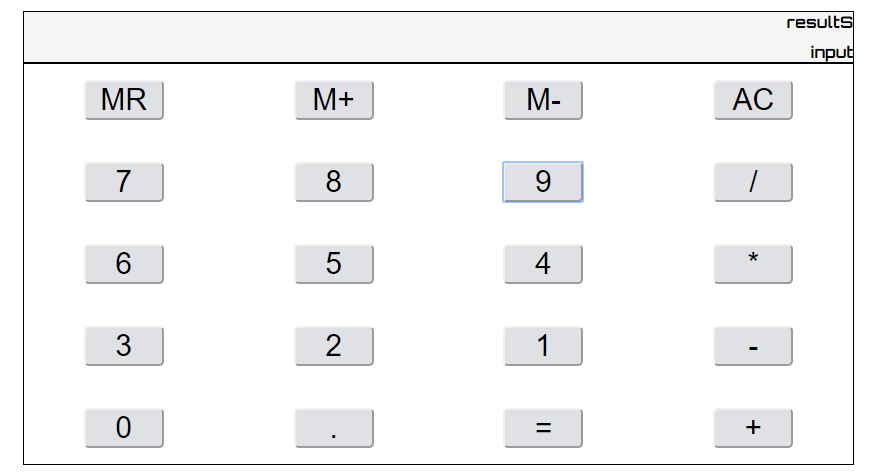
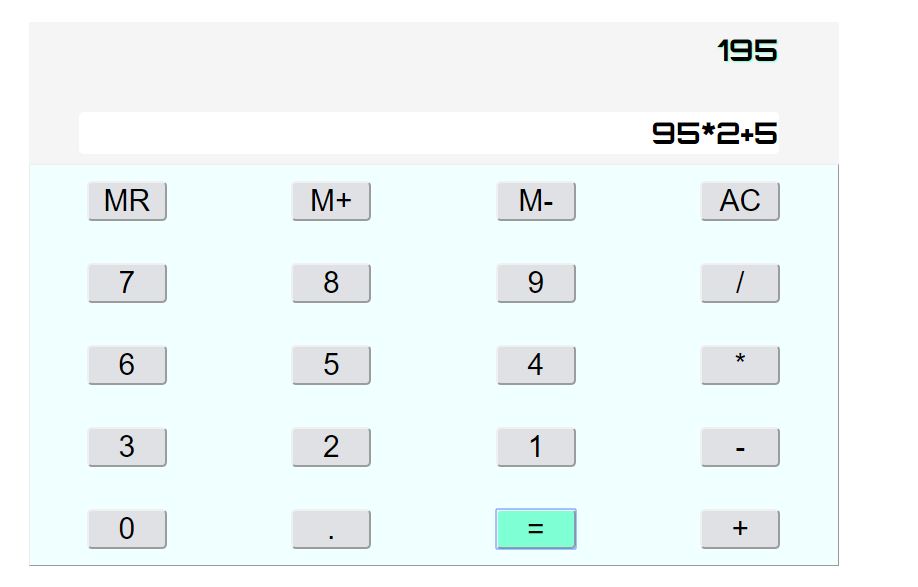
better front end + calculation with eval function

diff --git a/js/calc.js b/js/calc.js
@@ -20,12 +20,20 @@ const createCalcZone = function(calcBtnList){
     let resultZone = document.createElement("div")
     resultZone.classList.add("resultZone");
     viewZone.appendChild(resultZone);
-    resultZone.innerText = "resultS";
+    resultZone.innerText = "";
+
+
 
     let inputZone = document.createElement("div")
     inputZone.classList.add("inputZone");
     viewZone.appendChild(inputZone);
-    inputZone.innerText = "input";  
+
+    let inputOperation = document.createElement("input")
+    inputOperation.classList.add("inputOperation");
+    inputOperation.placeholder = "0";
+    //calcBtn.dataset.value = element; 
+    inputZone.appendChild(inputOperation);
+    //inputZone.innerText = "input";  
 
     //left div
     const rightDiv = document.createElement("div");
@@ -45,10 +53,91 @@ const createCalcZone = function(calcBtnList){
 
        let calcBtn = document.createElement("button")
        calcBtn.classList.add("calcBtn");
+       calcBtn.id = `btn_${element}s`;
        calcBtn.innerText = element;
        calcBtn.dataset.value = element; 
-       calcItem.appendChild(calcBtn);   
+       calcItem.appendChild(calcBtn);
+       
+       
     });
 
 } 
 createCalcZone(calcBtnList);
+
+const handleClickOnButton = function(event){
+
+    in_memory = 0;
+    let clickedValue = event.currentTarget;
+    const excepts = ["MR","M+","M-","AC"];
+
+    if (excepts.includes(clickedValue.dataset.value)){
+
+        if (clickedValue.dataset.value === "AC"){
+            document.querySelector(".inputOperation").value = "";
+            document.querySelector(".resultZone").innerText = ""; 
+        }
+
+        if (clickedValue.dataset.value === "M+"){
+
+            function addInMem(){
+
+                const tempMem =  parseFloat(document.querySelector(".resultZone").innerText || "");
+                localStorage.setItem("memory",tempMem);
+
+                // let tempMem = parseFloat(localStorage.getItem("memory"));
+                // if (!tempMem || tempMem === ""){
+                //     tempMem =  parseFloat(document.querySelector(".resultZone").innerText);
+                //     localStorage.setItem("memory",tempMem);
+                // }
+                // else{
+                //     const tempResult = parseFloat(document.querySelector(".resultZone").innerText || "");
+                //     localStorage.setItem("memory",tempMem+tempResult);
+                // }
+                // let tempMem = parseFloat(localStorage.getItem("memory"));
+                
+                
+                console.log(parseFloat(localStorage.getItem("memory") || ""));
+            }
+            return addInMem();
+
+        }
+        if (clickedValue.dataset.value === "M+"){
+            localStorage.clear();
+        }
+        if (clickedValue.dataset.value === "MR"){
+            const tempMem = localStorage.getItem("memory") || "";
+            document.querySelector(".resultZone").innerText = tempMem; 
+        }
+
+    }
+    else if(clickedValue.dataset.value === "="){
+        const inputCurrentValue = document.querySelector(".inputOperation").value;
+        result = eval(inputCurrentValue); //= inputCurrentValue+clickedValue.dataset.value;
+        //document.querySelector(".inputOperation").value = inputCurrentValue;
+        document.querySelector(".resultZone").innerText = result; 
+        console.log(result);
+    }
+    else{
+        let inputCurrentValue = document.querySelector(".inputOperation").value;
+        inputCurrentValue = inputCurrentValue+clickedValue.dataset.value;
+        document.querySelector(".inputOperation").value = inputCurrentValue;
+        console.log(inputCurrentValue)
+    }
+
+    console.log(event.currentTarget);
+}
+
+const handleKeyPress = function(event){
+    console.log(event.currentTarget);
+}
+
+// Interactive Zone click or keypress event 
+const buttonClick = function(){
+    btns = document.querySelectorAll(".calcBtn");
+    console.log(btns);
+    btns.forEach(element => {
+        element.addEventListener("click",handleClickOnButton);
+        element.addEventListener("keypress",handleKeyPress);
+    } )
+}
+buttonClick();

diff --git a/css/style.css b/css/style.css
@@ -38,17 +38,16 @@
 	align-items: center;
 	font-size: 30px;
 	font-weight: bold;
-	border: 1px solid;
+	border: 1px outset;
+	background: azure;
 }
 
 .viewZone{
-	display: grid;
-	
+	display: grid;	
 	font-weight: bold;
 	justify-items: right;
 	align-items: center;
 	background-color: whitesmoke;
-	border: 1px solid;
 	row-gap: 10px;
 }
 
@@ -59,3 +58,29 @@
 	width: 80px;
 	border-radius: 5px;
 } 
+.inputOperation{
+	text-align: right;
+	width: 700px;
+	height: 40px;
+	font-size: 30px;
+	font-weight: bold;
+	border-style: none;
+	margin: 10px 60px 10px 50px;
+	border-radius: 5px;
+	position: relative;
+	font-family: "Orbitron";
+}
+
+.resultZone{
+	height: 50px;
+	text-align: right;
+	margin: 10px 60px 10px 50px;
+	border-radius: 5px;
+	position: relative;
+	font-size: 30px;
+	text-shadow: 1px 1px 2px aquamarine;
+}
+
+#btn_\=s{
+	background-color: aquamarine;
+}
